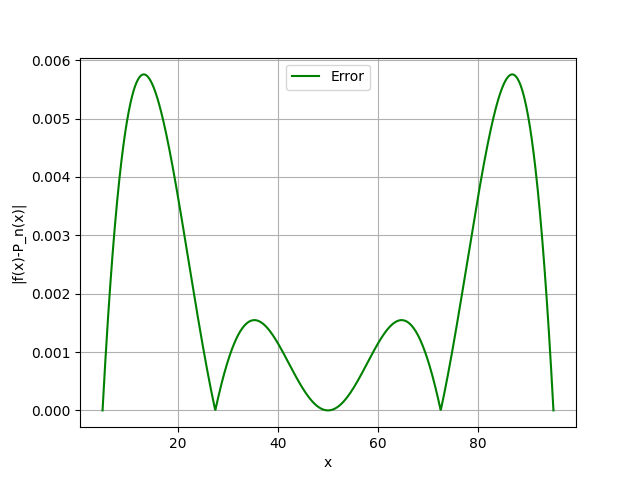
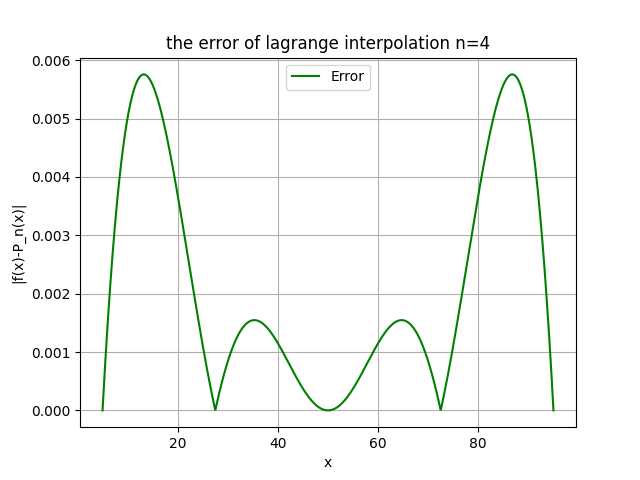
hmk44

Changed region(s): [[0.25, 0.0625, 0.7812, 0.125]]

diff --git a/4/4-1.py b/4/4-1.py
@@ -11,7 +11,7 @@ def f(x):
     return np.exp(-(x-u)**2/(2*sigma**2))/(sigma*np.sqrt(2*np.pi))
 
 # prepare the interpolation points (x_i, y_i)
-n = 4
+n = 2
 x = np.zeros(n+1)
 y = np.zeros(n+1)
 for i in range(0,n+1):
@@ -32,26 +32,28 @@ for k in range(0, n+1):
     for i in range(0, 1000):
         sum[i] += lagrange(X[i], k)*y[k]
 
-# plot the original function and the interpolation function
+# (a) plot the original function and the interpolation function
 plt.plot(X, f(X), 'b', label='f(x)')
-plt.plot(X, sum, 'r', label='Lagrange interpolation')
+plt.plot(X, sum, 'r', label='P_n(x)')
 plt.legend()
 plt.xlabel('x')
 plt.ylabel('y')
+plt.title('lagrange interpolation n='+ str(n))
 plt.grid()
 plt.show()
 
-# plot the error of the interpolation function
+# (b) plot the error of the interpolation function
 plt.plot(X, np.abs(sum-f(X)), 'g', label='Error')
 plt.legend()
 plt.xlabel('x')
 plt.ylabel('|f(x)-P_n(x)|')
+plt.title('the error of lagrange interpolation n='+ str(n))
 plt.grid()
 plt.show()
 
-# find the smallest n to satisfy the error < 0.0005
+# (c) find the smallest n satisfying the error < 0.0005
 error = np.abs(sum-f(X)).max()
-while(error >= 0.0005):
+while(error > 0.0005):
     n += 1
     x = np.zeros(n+1)
     y = np.zeros(n+1)
@@ -66,10 +68,11 @@ while(error >= 0.0005):
 print('The smallest n =', n)
 
 # At the time, plot the error of the interpolation function
-plt.plot(X, np.abs(sum-f(X)), 'g', label='Error (n=10)')
+plt.plot(X, np.abs(sum-f(X)), 'g', label='Error')
 plt.legend()
 plt.xlabel('x')
 plt.ylabel('|f(x)-P_n(x)|')
+plt.title('the error of lagrange interpolation n='+ str(n))
 plt.grid()
 plt.ylim(0, 0.0005)
 plt.show()
